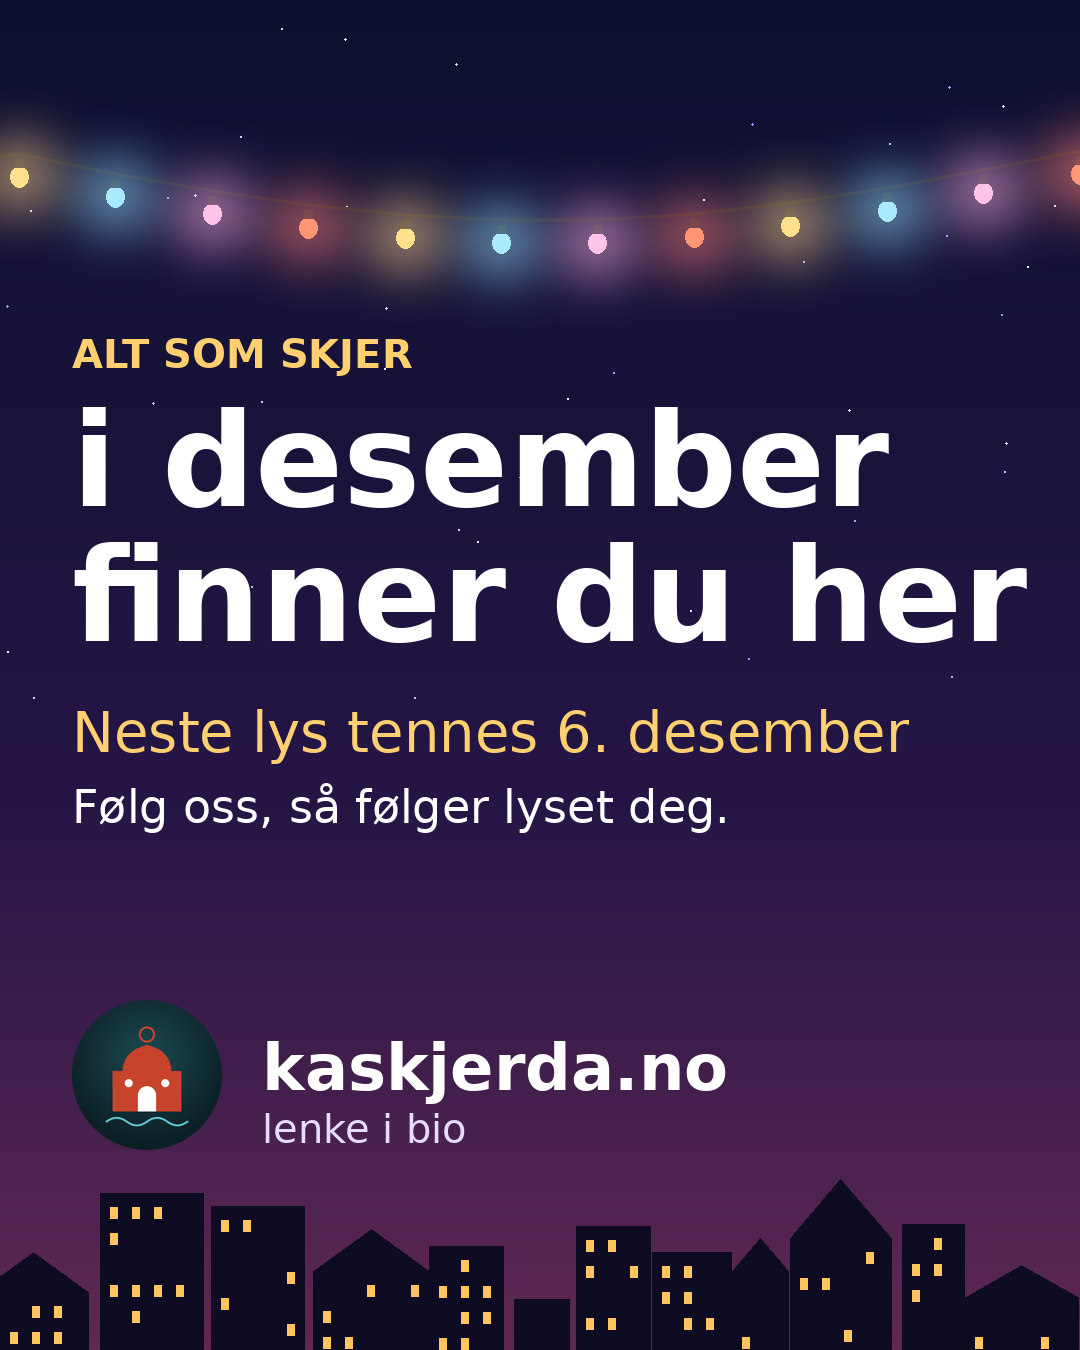
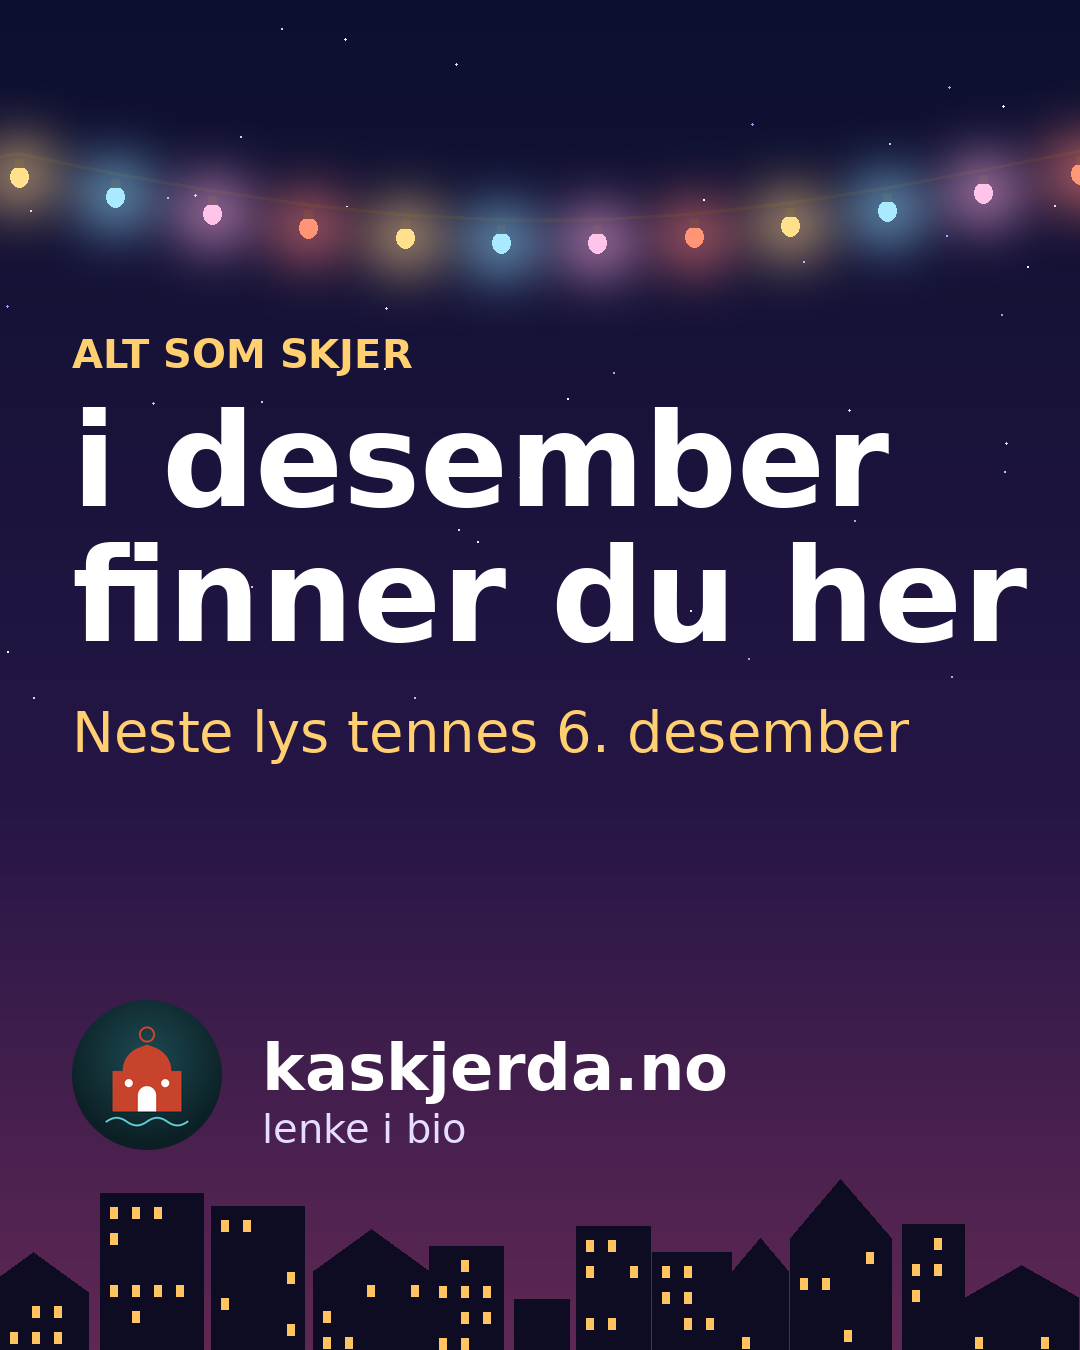
Fjern «Følg oss, så følger lyset deg» fra siste karusellbilde
Claude-Session: https://claude.ai/code/session_01Kvjci7zDhpAZiL4uv5z75W

Changed region(s): [[0.275, 0.5911, 0.6722, 0.6222], [0.0611, 0.5911, 0.2444, 0.6222]]

diff --git a/docs/advent-forslag/lag.py b/docs/advent-forslag/lag.py
@@ -162,7 +162,7 @@ def slide_text(i, im):
     else:
         text(d, PAD, 330, "ALT SOM SKJER", M(40), GOLD)
         text(d, PAD, 385, "i desember", B(130)); text(d, PAD, 520, "finner du her", B(130))
-        text(d, PAD, 700, "Neste lys tennes 6. desember", F(56), GOLD); text(d, PAD, 780, "Følg oss, så følger lyset deg.", F(46))
+        text(d, PAD, 700, "Neste lys tennes 6. desember", F(56), GOLD);
         lg, mask = logo(150); im.paste(lg, (PAD, 1000), mask)
         text(d, PAD + 190, 1030, "kaskjerda.no", B(64)); text(d, PAD + 190, 1105, "lenke i bio", F(40), (230, 220, 255))
     if i < N - 1: text(d, W - PAD, 80, f"{i + 1}/{N}", M(34), (200, 200, 230), "ra")
